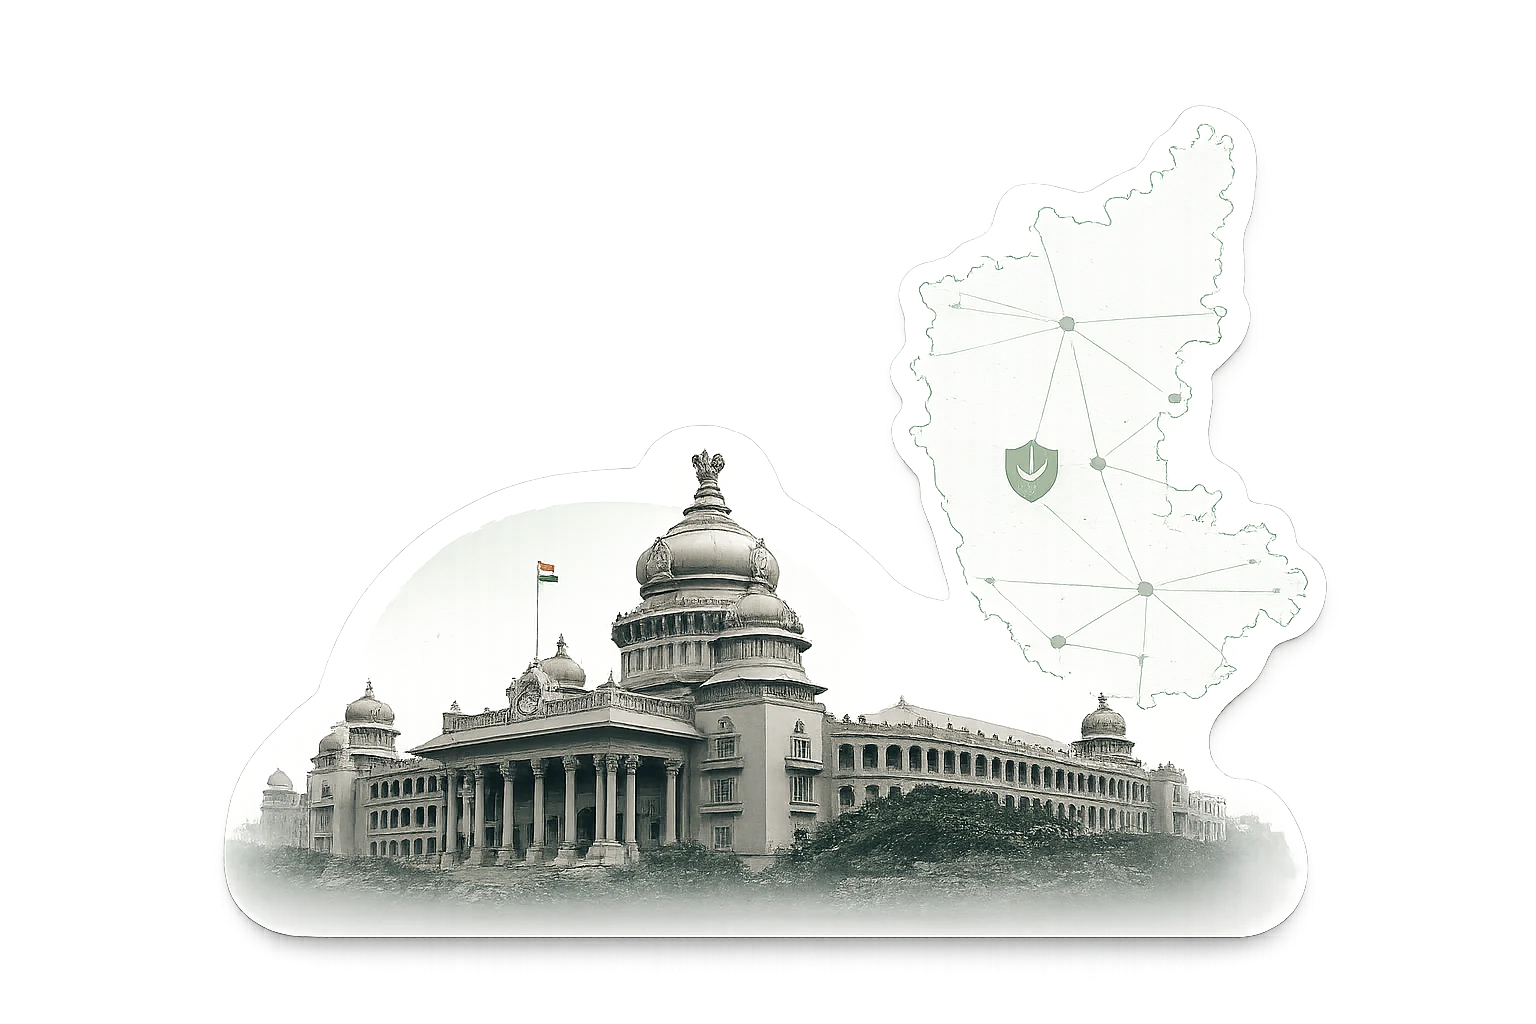
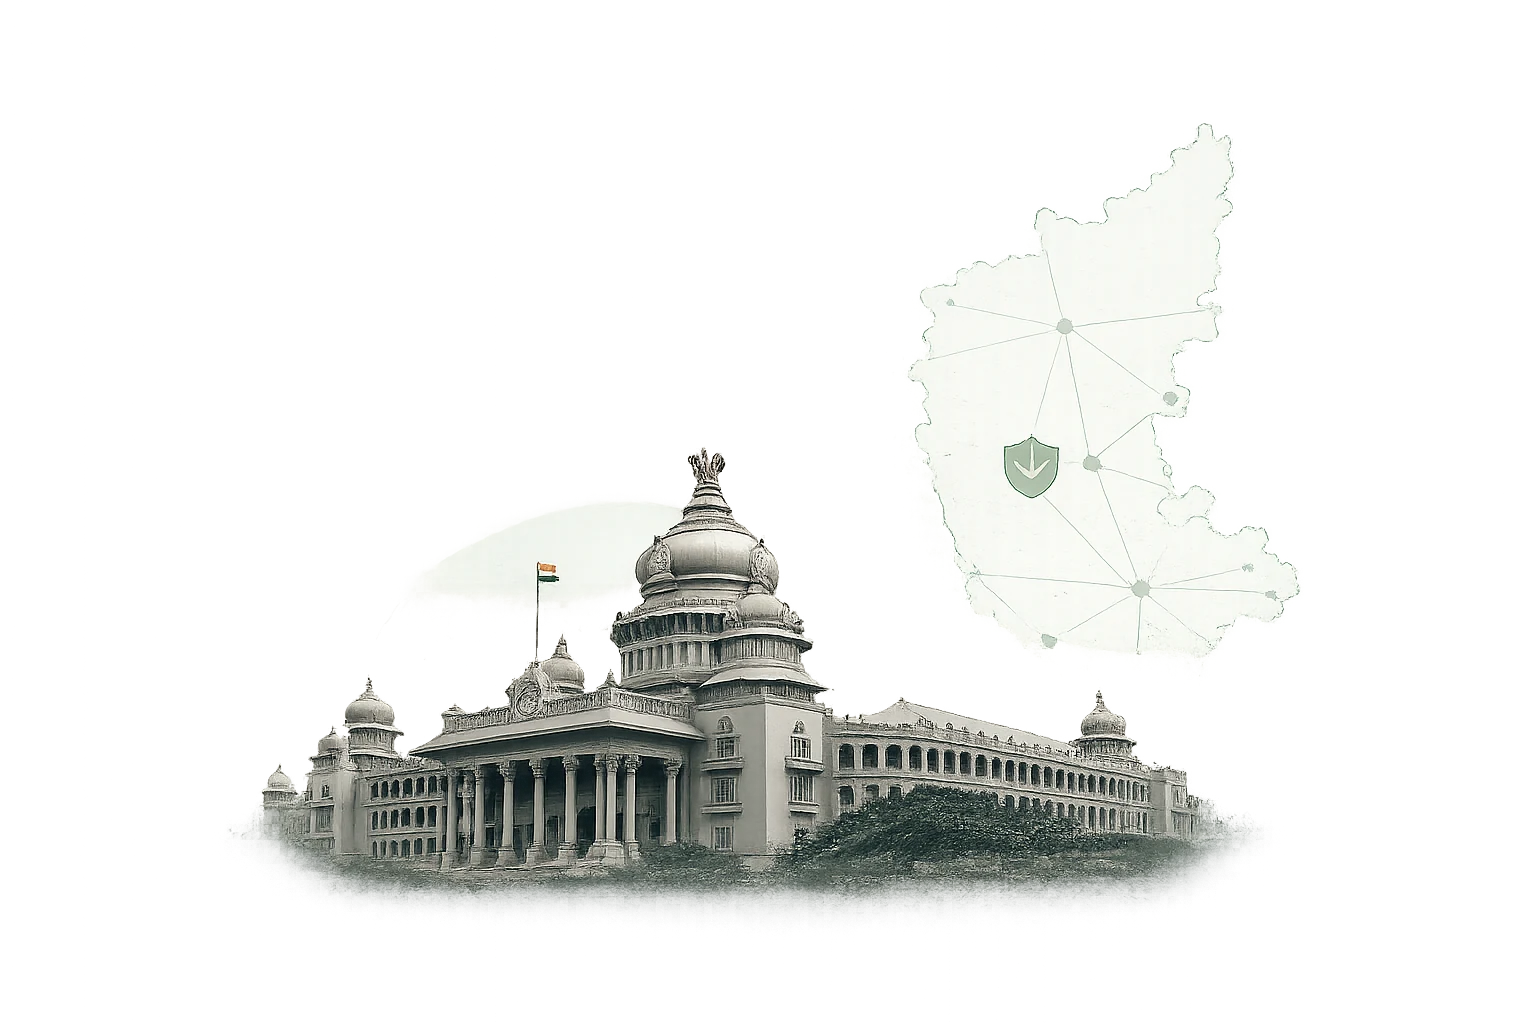
Remove dark mode; replace login backdrop with a cleaner cutout
Dark mode is dropped entirely, not just hidden: tokens.css no longer has a
dark block, useTheme.ts is deleted, the theme toggle button and its sun/moon
icons are gone, index.html no longer stamps a theme before paint, and the map
no longer swaps tile layers. This is an internal command tool used on desk
machines in lit rooms; a second theme doubled the surface area of every
future screen for no operational benefit. design.md updated to say so.

The login backdrop is swapped for a new cutout with soft faded edges instead
of a hard die-cut stroke, so no luminance-keying is needed this time — used
as supplied, re-encoded to WebP (283KB, down from 2.6MB). It also carries its
own transparent margin, which is why the existing overscale/position values
still land correctly against it.

diff --git a/client/src/styles/tokens.css b/client/src/styles/tokens.css
@@ -1,7 +1,10 @@
 /* ==========================================================================
    Design tokens — KSP Crime Intelligence Platform
    Roles, not raw hex. Consume these; never hardcode a colour in a component.
-   Dark mode is a selected set of steps, not an inversion of light.
+
+   Light only. Dark mode was removed deliberately: this is an internal command
+   tool used on desk machines in lit rooms, and a second theme doubles the
+   surface area of every future screen for no operational benefit.
    ========================================================================== */
 
 :root {
@@ -99,106 +102,4 @@
   --sidebar-w: 248px;
   --topbar-h: 64px;
   --gutter: 24px;
-}
-
-/* --- Dark mode -----------------------------------------------------------
-   Steps chosen against the dark surface, validated as their own set.
-   Both scopes declared: the media query follows the OS, the [data-theme]
-   attribute follows the in-app toggle and must win in both directions.
-   ------------------------------------------------------------------------ */
-
-@media (prefers-color-scheme: dark) {
-  :root:where(:not([data-theme="light"])) {
-    color-scheme: dark;
-
-    --brand-green-100: #123a29;
-    --brand-green-050: #0e2f21;
-
-    --surface-page: #0d100e;
-    --surface-card: #171b18;
-    --surface-sunken: #12160f;
-    --surface-raised: #1e2320;
-    --surface-inverse: #0b4229;
-
-    --ink-primary: #ffffff;
-    --ink-secondary: #c3c7bb;
-    --ink-muted: #8a8d84;
-
-    --line-hairline: rgba(255, 255, 255, 0.10);
-    --line-strong: rgba(255, 255, 255, 0.18);
-    --line-grid: #2a2f2b;
-
-    --status-good: #34a853;
-    --status-good-bg: #14301d;
-    --status-warning: #d9a441;
-    --status-warning-bg: #33270f;
-    --status-serious: #e0824a;
-    --status-serious-bg: #331e12;
-    --status-critical: #e05c52;
-    --status-critical-bg: #331715;
-    --status-neutral: #c3c7bb;
-    --status-neutral-bg: #24282300;
-
-    --delta-good: #34a853;
-    --delta-bad: #e05c52;
-
-    --seq-100: #16352a;
-    --seq-200: #1c4a37;
-    --seq-300: #246045;
-    --seq-400: #2f7754;
-    --seq-500: #3d8f65;
-    --seq-600: #4da878;
-    --seq-700: #6cc294;
-
-    --shadow-sm: 0 1px 2px rgba(0, 0, 0, 0.4);
-    --shadow-md: 0 2px 8px rgba(0, 0, 0, 0.45);
-    --shadow-lg: 0 8px 32px rgba(0, 0, 0, 0.55);
-  }
-}
-
-:root[data-theme="dark"] {
-  color-scheme: dark;
-
-  --brand-green-100: #123a29;
-  --brand-green-050: #0e2f21;
-
-  --surface-page: #0d100e;
-  --surface-card: #171b18;
-  --surface-sunken: #12160f;
-  --surface-raised: #1e2320;
-  --surface-inverse: #0b4229;
-
-  --ink-primary: #ffffff;
-  --ink-secondary: #c3c7bb;
-  --ink-muted: #8a8d84;
-
-  --line-hairline: rgba(255, 255, 255, 0.10);
-  --line-strong: rgba(255, 255, 255, 0.18);
-  --line-grid: #2a2f2b;
-
-  --status-good: #34a853;
-  --status-good-bg: #14301d;
-  --status-warning: #d9a441;
-  --status-warning-bg: #33270f;
-  --status-serious: #e0824a;
-  --status-serious-bg: #331e12;
-  --status-critical: #e05c52;
-  --status-critical-bg: #331715;
-  --status-neutral: #c3c7bb;
-  --status-neutral-bg: #242823;
-
-  --delta-good: #34a853;
-  --delta-bad: #e05c52;
-
-  --seq-100: #16352a;
-  --seq-200: #1c4a37;
-  --seq-300: #246045;
-  --seq-400: #2f7754;
-  --seq-500: #3d8f65;
-  --seq-600: #4da878;
-  --seq-700: #6cc294;
-
-  --shadow-sm: 0 1px 2px rgba(0, 0, 0, 0.4);
-  --shadow-md: 0 2px 8px rgba(0, 0, 0, 0.45);
-  --shadow-lg: 0 8px 32px rgba(0, 0, 0, 0.55);
 }

diff --git a/client/src/components/HotspotMap.tsx b/client/src/components/HotspotMap.tsx
@@ -4,7 +4,6 @@ import "leaflet/dist/leaflet.css";
 import "leaflet.heat";
 import { Icon } from "./Icon";
 import { generateHeatPoints, MAP_CENTER, MAP_ZOOM } from "../data/mock";
-import { useTheme } from "../hooks/useTheme";
 import "./HotspotMap.css";
 
 /**
@@ -21,11 +20,7 @@ import "./HotspotMap.css";
  * users read it natively. It is the ONLY place a multi-hue ramp is allowed.
  */
 
-const TILES = {
-  light:
-    "https://{s}.basemaps.cartocdn.com/light_all/{z}/{x}/{y}{r}.png",
-  dark: "https://{s}.basemaps.cartocdn.com/dark_all/{z}/{x}/{y}{r}.png",
-};
+const TILE_URL = "https://{s}.basemaps.cartocdn.com/light_all/{z}/{x}/{y}{r}.png";
 
 const ATTRIBUTION =
   '&copy; <a href="https://www.openstreetmap.org/copyright">OpenStreetMap</a> contributors &copy; <a href="https://carto.com/attributions">CARTO</a>';
@@ -41,10 +36,7 @@ const HEAT_GRADIENT = {
 export function HotspotMap({ height = 380 }: { height?: number }) {
   const containerRef = useRef<HTMLDivElement>(null);
   const mapRef = useRef<L.Map | null>(null);
-  const tileRef = useRef<L.TileLayer | null>(null);
-  const { theme } = useTheme();
 
-  // Create the map once. Theme changes swap the tile layer, not the map.
   useEffect(() => {
     if (!containerRef.current || mapRef.current) return;
 
@@ -56,7 +48,7 @@ export function HotspotMap({ height = 380 }: { height?: number }) {
       scrollWheelZoom: false, // A demo map that hijacks page scroll is a liability.
     });
 
-    tileRef.current = L.tileLayer(TILES.light, {
+    L.tileLayer(TILE_URL, {
       attribution: ATTRIBUTION,
       maxZoom: 19,
     }).addTo(map);
@@ -74,14 +66,8 @@ export function HotspotMap({ height = 380 }: { height?: number }) {
     return () => {
       map.remove();
       mapRef.current = null;
-      tileRef.current = null;
     };
   }, []);
-
-  useEffect(() => {
-    if (!tileRef.current) return;
-    tileRef.current.setUrl(theme === "dark" ? TILES.dark : TILES.light);
-  }, [theme]);
 
   return (
     <div className="hotspot-map" style={{ height }}>

diff --git a/client/src/components/TopBar.tsx b/client/src/components/TopBar.tsx
@@ -1,6 +1,5 @@
 import { Icon } from "./Icon";
 import { Emblem } from "./Emblem";
-import { useTheme } from "../hooks/useTheme";
 import { currentOfficer } from "../data/mock";
 import "./TopBar.css";
 
@@ -11,7 +10,6 @@ import "./TopBar.css";
  */
 
 export function TopBar() {
-  const { theme, toggle } = useTheme();
   const trail = currentOfficer.breadcrumb;
 
   return (
@@ -44,17 +42,6 @@ export function TopBar() {
       </nav>
 
       <div className="topbar__actions">
-        <button
-          type="button"
-          className="topbar__icon-btn"
-          onClick={toggle}
-          aria-label={
-            theme === "dark" ? "Switch to light theme" : "Switch to dark theme"
-          }
-        >
-          <Icon name={theme === "dark" ? "moon" : "sun"} size={19} />
-        </button>
-
         <button
           type="button"
           className="topbar__icon-btn"

diff --git a/client/src/routes/Login.css b/client/src/routes/Login.css
@@ -60,23 +60,6 @@
   user-select: none;
 }
 
-/* Omitted in dark mode, deliberately.
-   The artwork is a light-ground composition: pale architecture that fades to
-   white. Keying the white to alpha makes it sit correctly on the light surface,
-   but on the near-black surface there is nothing to salvage — inverting turns
-   the building into a photographic negative, and leaving it keyed rings the
-   silhouette with a hard vignette. Both read worse than no art at all, so dark
-   mode shows the headline and feature strip on a clean surface instead.
-   Revisit if a dark-ground variant of the asset ever exists. */
-:root[data-theme="dark"] .login__backdrop {
-  display: none;
-}
-
-@media (prefers-color-scheme: dark) {
-  :root:where(:not([data-theme="light"])) .login__backdrop {
-    display: none;
-  }
-}
 
 .login__brand-head,
 .login__hero,

diff --git a/client/index.html b/client/index.html
@@ -10,23 +10,6 @@
     />
     <meta name="theme-color" content="#0b4229" />
     <title>KSP Crime Intelligence Platform</title>
-    <script>
-      // Stamp the theme before first paint so a dark-mode reload doesn't flash white.
-      (function () {
-        try {
-          var stored = localStorage.getItem("ksp-theme");
-          var theme =
-            stored === "light" || stored === "dark"
-              ? stored
-              : window.matchMedia("(prefers-color-scheme: dark)").matches
-                ? "dark"
-                : "light";
-          document.documentElement.setAttribute("data-theme", theme);
-        } catch (e) {
-          /* localStorage unavailable — the CSS media query still covers us */
-        }
-      })();
-    </script>
   </head>
   <body>
     <div id="root"></div>

diff --git a/client/src/components/Icon.tsx b/client/src/components/Icon.tsx
@@ -23,8 +23,6 @@ export type IconName =
   | "hierarchy"
   | "chart-up"
   | "file-check"
-  | "sun"
-  | "moon"
   | "bell"
   | "chevron-down"
   | "chevron-right"
@@ -137,13 +135,6 @@ const PATHS: Record<IconName, ReactElement> = {
       <path d="m9 14.5 2 2 4-4.5" />
     </>
   ),
-  sun: (
-    <>
-      <circle cx="12" cy="12" r="4" />
-      <path d="M12 2v2.5M12 19.5V22M2 12h2.5M19.5 12H22M4.9 4.9l1.8 1.8M17.3 17.3l1.8 1.8M19.1 4.9l-1.8 1.8M6.7 17.3l-1.8 1.8" />
-    </>
-  ),
-  moon: <path d="M20.5 14.3A8.5 8.5 0 1 1 9.7 3.5a6.8 6.8 0 0 0 10.8 10.8Z" />,
   bell: (
     <>
       <path d="M18 8.5a6 6 0 0 0-12 0c0 6-2.5 7.5-2.5 7.5h17S18 14.5 18 8.5Z" />

diff --git a/client/src/components/HotspotMap.css b/client/src/components/HotspotMap.css
@@ -30,10 +30,6 @@
   color: var(--ink-secondary);
 }
 
-:root[data-theme="dark"] .hotspot-map .leaflet-control-attribution {
-  background: rgba(0, 0, 0, 0.55);
-}
-
 /* --- Floating controls ---------------------------------------------------- */
 
 .hotspot-map__zoom,

diff --git a/design.md b/design.md
@@ -132,7 +132,7 @@ These come from an established viz method. Please don't relitigate them; they're
 - Text wears text tokens, never the series color.
 - Hover layer by default: crosshair + tooltip on line/area, per-mark tooltip on bar/dot/cell.
 - A table view exists for every chart.
-- **Dark mode is selected, not flipped** — its own steps validated against the dark surface.
+- **Light only.** Dark mode was removed deliberately — this is an internal command tool used on desk machines in lit rooms, and a second theme doubles the surface area of every future screen for no operational benefit. Don't design dark variants.
 
 **Palette:** a validated default is available and I'd start there rather than inventing one — but if you bring a KSP-appropriate palette (and an institutional navy/khaki register may well suit this better), it must be **run through the validator**, not eyeballed. The checks are lightness band, chroma floor, adjacent-pair colorblind separation (ΔE ≥ 12), and contrast. Tell me the palette and I'll run it.
 
@@ -164,7 +164,7 @@ Step 4 is the moment. If one screen gets disproportionate design effort, it's th
 ## 10. Deliverables
 
 - Desktop-first (1440px). Officers use desktops. Mobile is not scored.
-- Light **and** dark, both selected deliberately.
+- Light only — see §7.
 - Component states as §8.
 - Tokens as CSS custom properties (roles, not raw hex) — the frontend consumes these directly.
 - Kannada string-width sanity check on nav, labels, and table headers.
